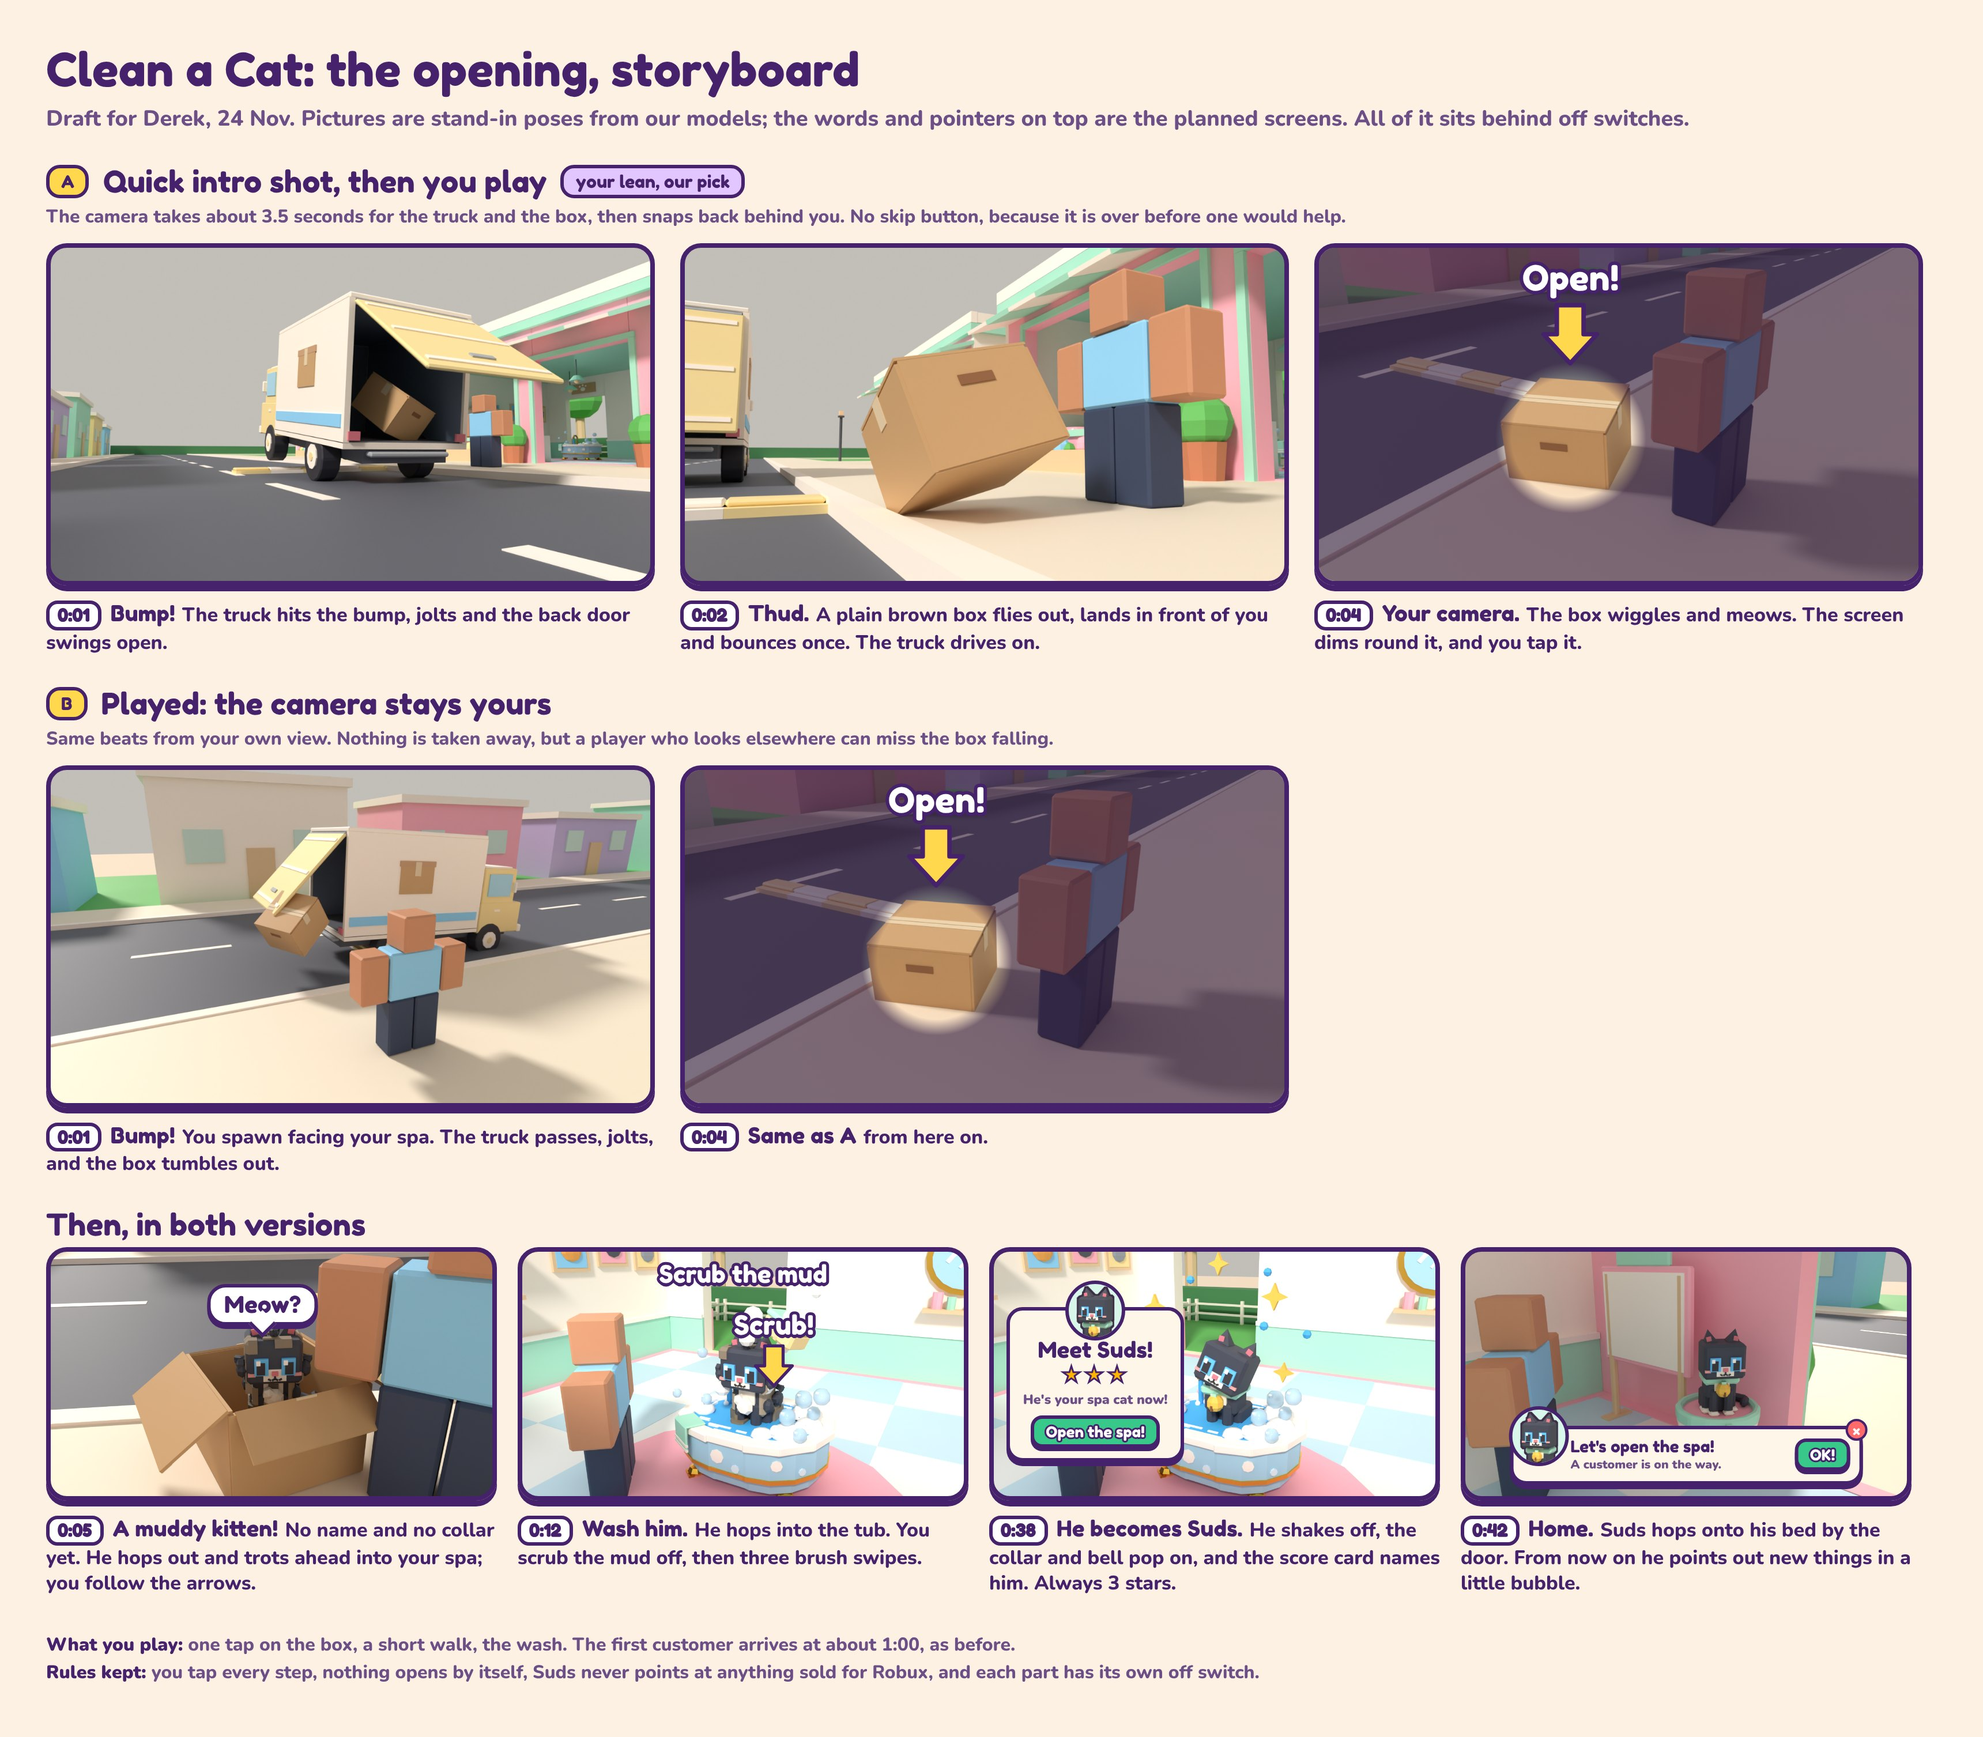
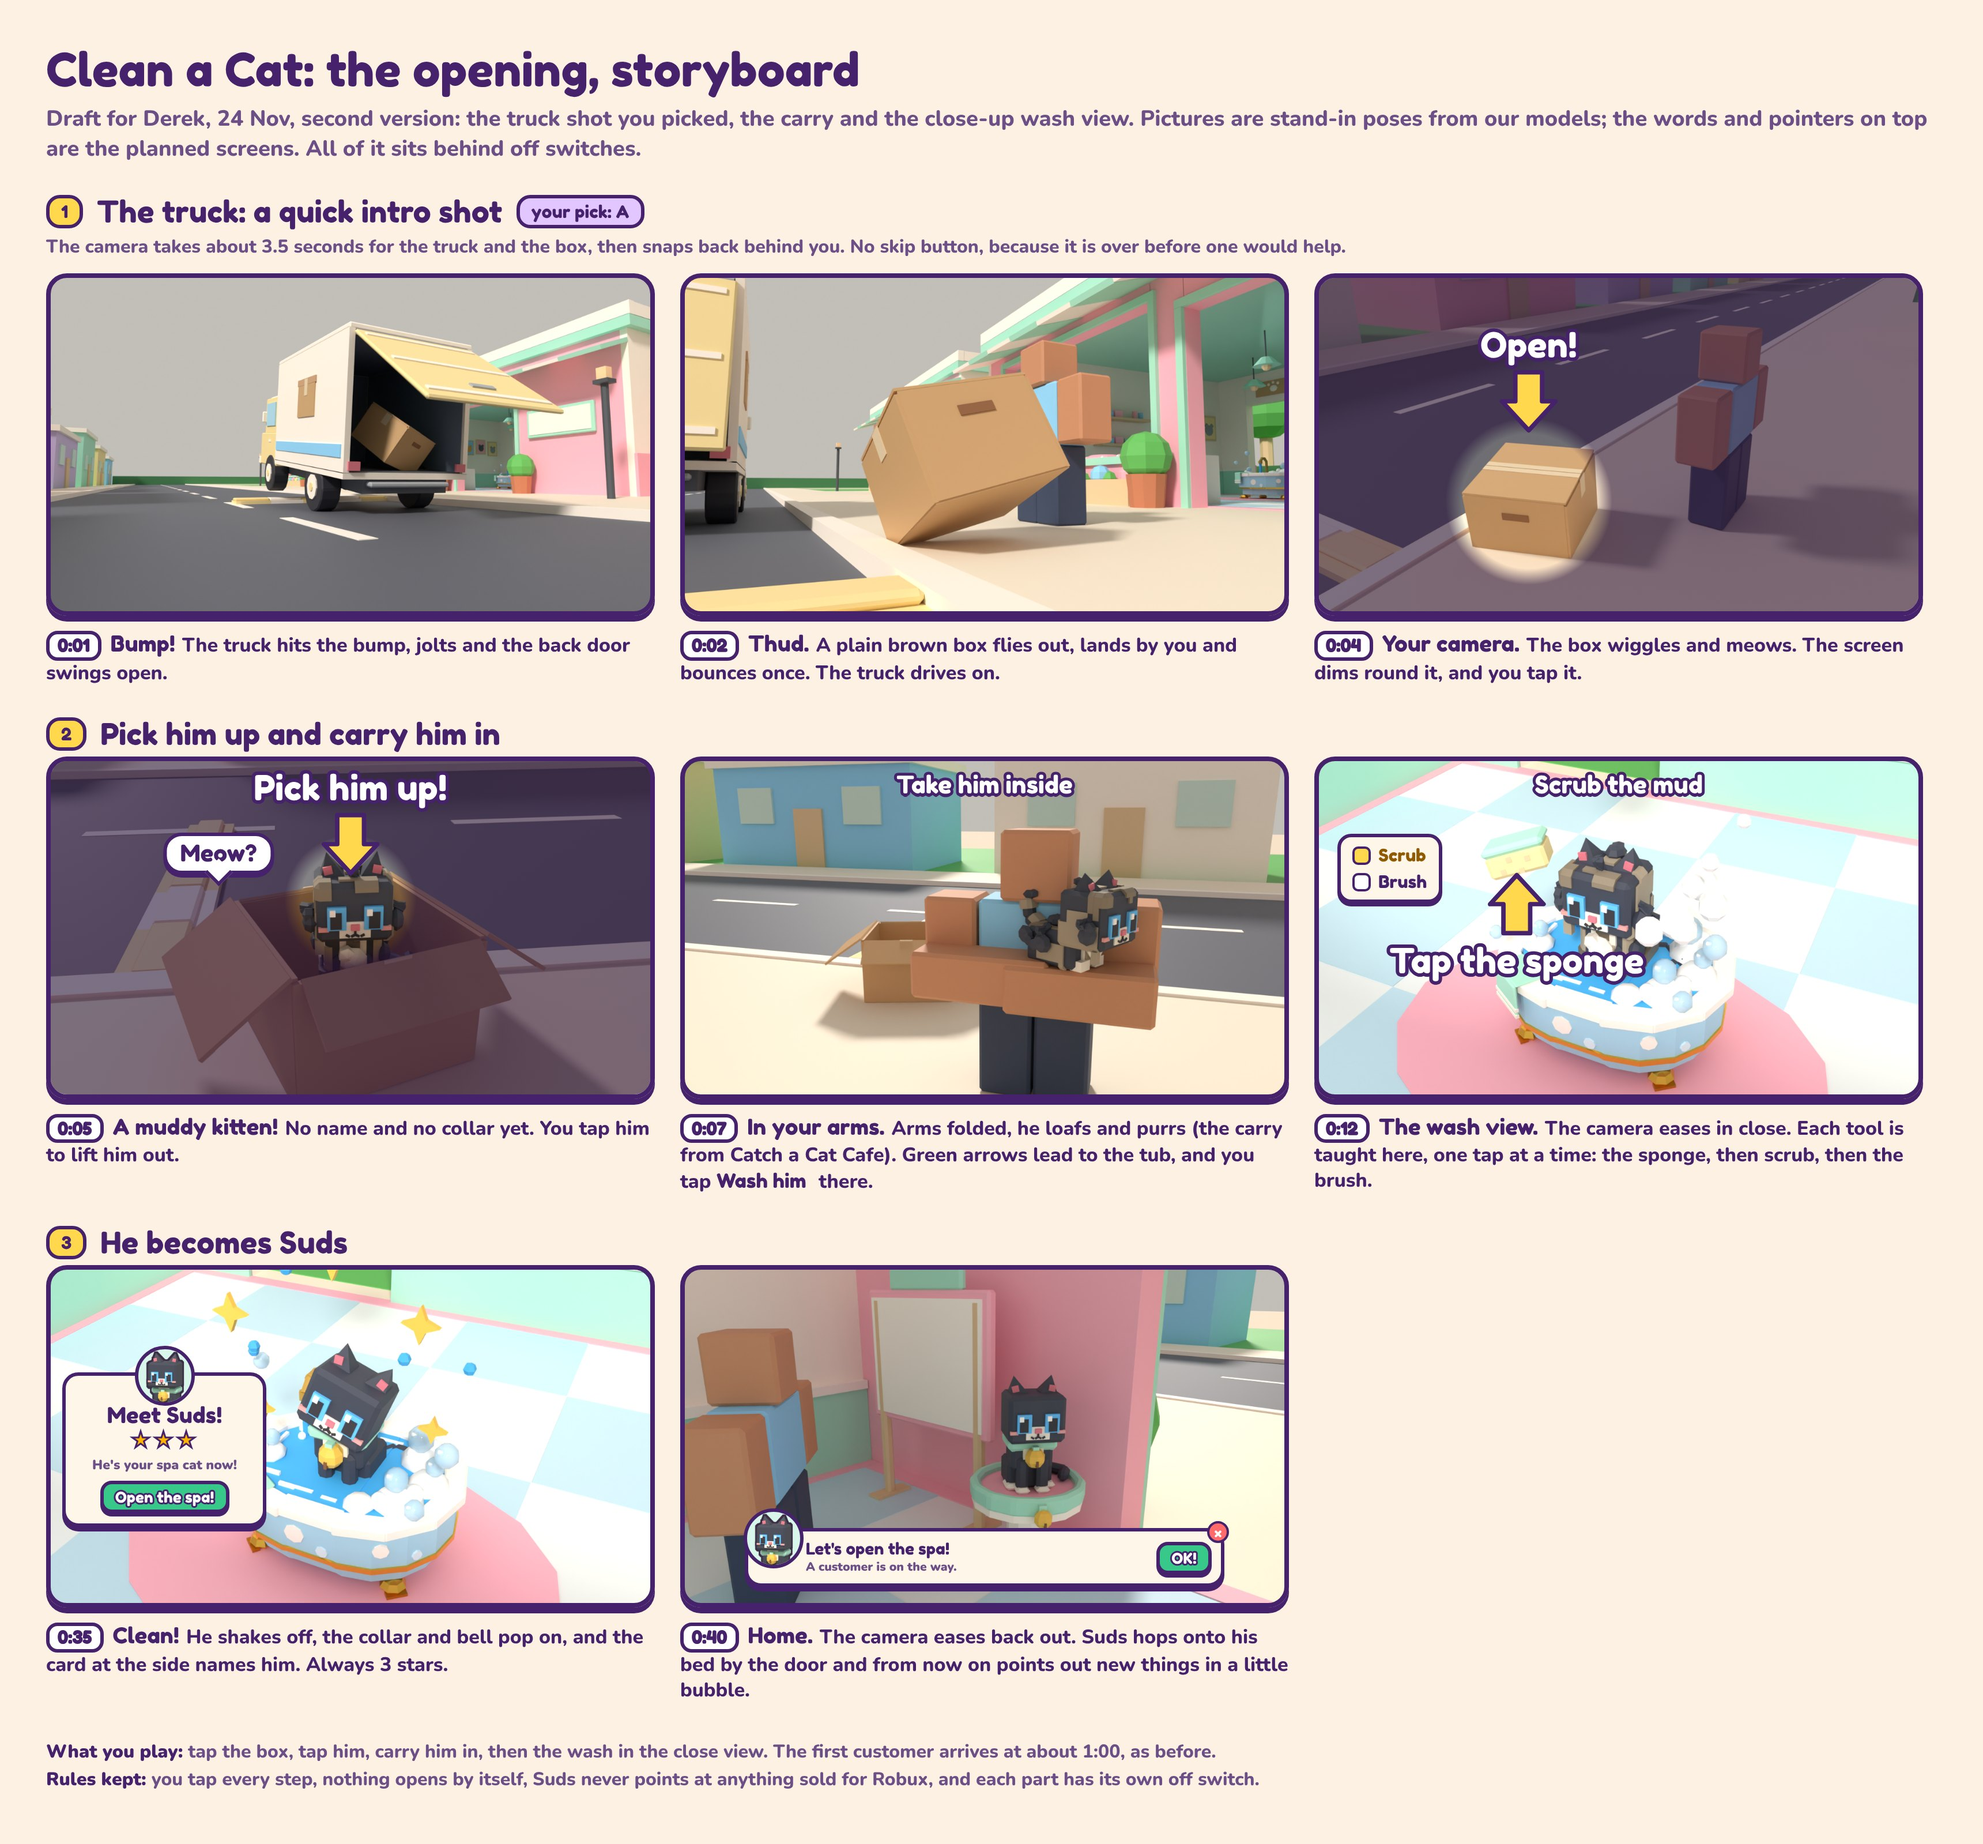
Opening storyboard v2: truck shot A, the carry and the close-up wash view
Claude-Session: https://claude.ai/code/session_01DW2up2CqfSnWTuFaCPQ7D7

diff --git a/docs/concepts/clean-a-cat/README.md b/docs/concepts/clean-a-cat/README.md
@@ -62,4 +62,4 @@ HUD source page: `assets/clean-a-cat/ui/hud.html`. Plans: issues #5 (first sessi
 - `2026-11-24-staff.png`: the human staff draft: Jo and Sam in the spa uniform (mint smock, cream collar and cuffs, paw name badge, no hat) as portraits, the Helper button made from Jo, a customer for contrast and Suds the mascot kitten, at 310 px and at 96, 64 and 48 px on mint, cream and a world green. Pictures only, no game model yet. 2026-11-24.
 - `2026-11-24-ui-renders.png`: the check sheet for the pictures made from the models for the screens (#127): 66 portraits and icons at 128 px, alone on cream and with the ink outline on mint, then with the outline at 64 px and 32 px. The pictures themselves are in the project files under `Model-Agent/ui-renders/`. 2026-11-24.
 - `ui-2026-11-24/`: draft screens for the parts very likely needed whichever loop is picked (HUD, wash steps, recap, who's next queue, Cat Index, new cat reveal, cat chances, tools, helpers, builder, settings, toasts and praise, tutorial steps, while you were away). Each at phone (844 x 390) and desktop (1280 x 720). Source pages and the screen check are in `assets/clean-a-cat/ui/screens/`; every screen passes the check at seven screen sizes. Stand-in art, invented numbers and names. 2026-11-24.
-- `2026-11-24-opening-storyboard.jpg`: the opening Derek asked for (a truck hits a bump, a plain brown box falls in front of the player, a muddy kitten inside is washed and becomes Suds, the spa mascot). Version A is a 3.5 second intro shot, version B keeps the camera the player's; both then share the peek, the wash, the "Meet Suds!" card and his bed by the door with the help bubble. Stand-in poses from Model-Agent's models; plan in Design-Agent/first-session-2026-11-24/opening-and-tutorial-plan.md in the project files. 2026-11-24.
+- `2026-11-24-opening-storyboard.jpg`: the opening Derek asked for (a truck hits a bump, a plain brown box falls in front of the player, a muddy kitten inside is washed and becomes Suds, the spa mascot). Second version: the 3.5 second intro shot Derek picked, then the player taps the box, picks the kitten up and carries him in (Catch a Cat Cafe's carry), the camera eases into the close-up wash view where each tool is taught, and the "Meet Suds!" card at the side, then his bed by the door with the help bubble. Stand-in poses from Model-Agent's models; plan in Design-Agent/first-session-2026-11-24/opening-and-tutorial-plan.md in the project files. 2026-11-24.
